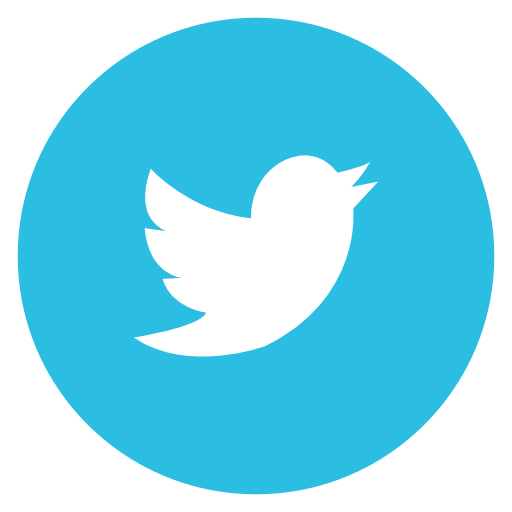
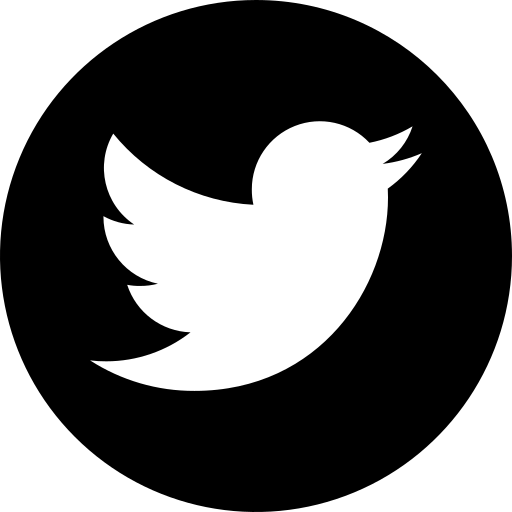
16-06-2022

diff --git a/index.html b/index.html
@@ -173,7 +173,7 @@
               <div class="about-content left animated" data-animate="fadeInLeft">
                 <div class="about-icon"><i class="fa fa-desktop"></i></div>
                 <div class="about-detail">
-                  <h4 style="color:white">Stages</h4>
+                  <h4 style="color:rgb(255, 255, 255)">Stages</h4>
                   <p>J'ai effectué mon stage de 3ème dans une entreprise de réparation électronique à Narbonne dans l'entreprise <a href="https://www.seia-electronique.fr/">SEIA électronique</a> ou j'ai réalisé un listing de pièces d’ordinateurs, test et validation de cartes mères, Mise en magasin (conditionnement et référencement).
                   </p>
                 </div>
@@ -357,7 +357,7 @@
                 <i class="fa fa-group"></i>
               </div>
               <div class="counter-content">
-                <a href="https://www.facebook.com/axel.mura.9" title="Rejoignez-moi sur Facebook"><img src="images/fb02.png" width="32px" onmouseover="javascript:this.src='images/fb01.png';" onmouseout="javascript:this.src='images/fb02.png';" style="padding-right: 10px;"></a>
+                <a href="https://www.facebook.com/axel.mura.9" title="Rejoignez-moi sur Facebook"><img src="images/facebook.png" width="32px" onmouseover="javascript:this.src='images/facebook (1).png';" onmouseout="javascript:this.src='images/facebook.png';" style="padding-right: 10px;"></a>
                 <small>Facebook</small>
               </div>
             </div>
@@ -369,7 +369,7 @@
                 <i class="fa fa-group"></i>
               </div>
               <div class="counter-content">
-                <a href="https://twitter.com/axel_mura" title="Rejoignez-moi sur Twitter"><img src="images/tw02.png" width="32px" onmouseover="javascript:this.src='images/tw01.png';" onmouseout="javascript:this.src='images/tw02.png';"style="padding-right: 10px;"></a>
+                <a href="https://twitter.com/axel_mura" title="Rejoignez-moi sur Twitter"><img src="images/twitter.png" width="32px" onmouseover="javascript:this.src='images/twitter (1).png';" onmouseout="javascript:this.src='images/twitter.png';"style="padding-right: 10px;"></a>
                 <small>Twitter</small>
               </div>
             </div>
@@ -381,7 +381,7 @@
                 <i class="fa fa-group"></i>
               </div>
               <div class="counter-content">
-                <a href="https://www.linkedin.com/in/axel-mura-486a2a199?lipi=urn%3Ali%3Apage%3Ad_flagship3_profile_view_base_contact_details%3Be0pHEn0CTdCF8NChuSq6fA%3D%3D" title="Rejoignez-moi sur LinkedIn"><img src="images/ln02.png" width="32px" onmouseover="javascript:this.src='images/ln01.png';" onmouseout="javascript:this.src='images/ln02.png';" style="padding-right: 10px;"></a>
+                <a href="https://www.linkedin.com/in/axel-mura-486a2a199?lipi=urn%3Ali%3Apage%3Ad_flagship3_profile_view_base_contact_details%3Be0pHEn0CTdCF8NChuSq6fA%3D%3D" title="Rejoignez-moi sur LinkedIn"><img src="images/linkedin.png" width="32px" onmouseover="javascript:this.src='images/linkedin (1).png';" onmouseout="javascript:this.src='images/linkedin.png';" style="padding-right: 10px;"></a>
                 <small>Linkedin</small>
               </div>
             </div>
@@ -393,7 +393,7 @@
                 <i class="fa fa-group"></i>
               </div>
               <div class="counter-content">
-                <a href="https://github.com/Axel34500" title="Rejoignez-moi sur GitHub"><img src="images/github02.png" width="32px" onmouseover="javascript:this.src='images/github01.png';" onmouseout="javascript:this.src='images/github02.png';"
+                <a href="https://github.com/Axel34500" title="Rejoignez-moi sur GitHub"><img src="images/github.png" width="32px" onmouseover="javascript:this.src='images/github (02).png';" onmouseout="javascript:this.src='images/github.png';"
                   style="padding-right: 10px;"></a>                
                   <small>GitHub</small>
               </div>
@@ -441,7 +441,7 @@
                 <span><i class="fa fa-map-marker fa-lg"></i> 7 impasse barbeyrac, 34500 Béziers</span>
                 <span><i class="fa fa-phone fa-lg"></i> <a href="tel:+33651095081" style="color:white;">06.51.09.50.81</a></span>
                 <span><i class="fa fa-envelope-o fa-lg"></i> <a href="axelmura@outlook.com">axelmura&#64;outlook.com</a></span>
-                <span><i class="fa fa-globe fa-lg"></i> <a href="https://axel--mura.000webhostapp.com/index.html">mon site</a></span>
+                <span><i class="fa fa-globe fa-lg"></i> <a href="https://axel-mura.000webhostapp.com/index.html">mon site</a></span>
             </address>
           </div>
 		  
@@ -453,7 +453,7 @@
       <div class="container">
         <div class="row">
           <div class="col-md-12 text-center">
-            <p>2021 &copy; Axel MURA- Tous droits réservés</p>
+            <p>2022 &copy; Axel MURA- Tous droits réservés</p>
           </div>
         </div>
       </div>
